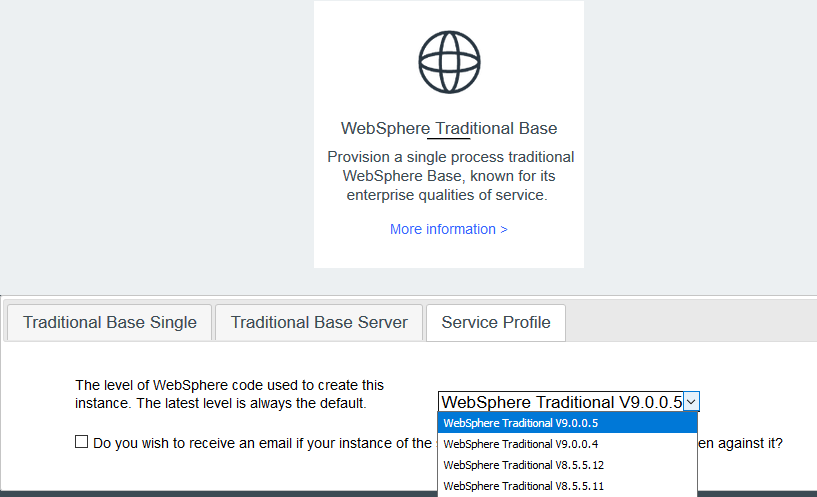
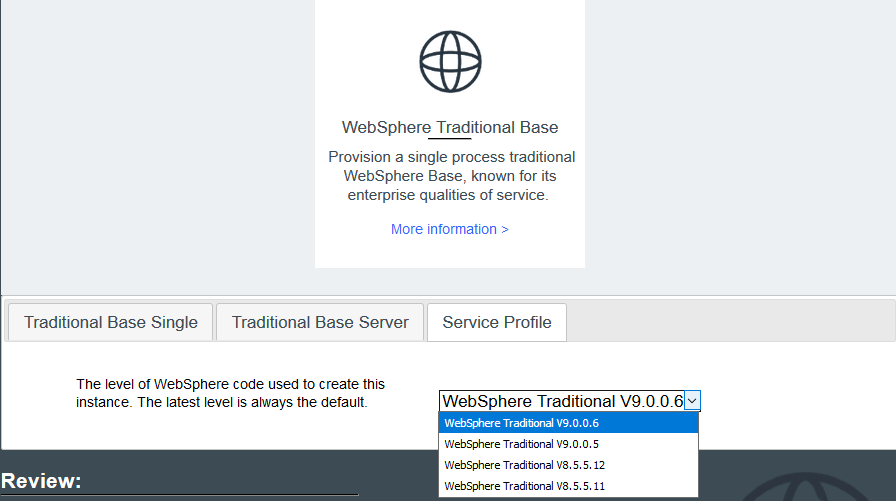
merging January updates

diff --git a/latestUpdates.md b/latestUpdates.md
@@ -1,8 +1,8 @@
 ---
 
 copyright:
-  years: 2016, 2017
-lastupdated: "2017-12-21"
+  years: 2017, 2018
+lastupdated: "2018-02-02"
 
 ---
 
@@ -14,6 +14,16 @@ lastupdated: "2017-12-21"
 {: #latest_updates}
 
 A list of the latest updates to the service.
+
+## January 8, 2018: Updated WebSphere Application Server in {{site.data.keyword.Bluemix_notm}}
+
+* The 9.0.0.6 fixpack version of traditional WebSphere Application Server is now available when you provision a new service instance. In addition to 9.0.0.6, other fixpack versions of traditional WebSphere Application Server, such as 9.0.0.5, 8.5.5.12, and 8.5.5.11, are available for provisioning.
+* The 17.0.0.4 fixpack version of WebSphere Application Server Liberty is now available when you provision a new service instance. In addition to 17.0.0.4, the 17.0.0.3 fixpack version of WebSphere Application Server Liberty is available for provisioning.
+* Addressed [several security vulnerabilities](http://www-01.ibm.com/support/docview.wss?uid=swg22013153){: new_window} in WebSphere Application Server in {{site.data.keyword.Bluemix_notm}} including:
+  * A vulnerability where OpenSAML could allow a remote authenticated attacker to obtain sensitive information, caused by an error when parsing XML entities.
+  * A vulnerability where Apache HTTP Server could allow a remote attacker to obtain sensitive information, caused by a flaw in the HTTP OPTIONS method, aka Optionsbleed.
+  * A vulnerability where Apache Portable Runtime Utility (APR-util) is vulnerable to a denial of service, caused by failing to validate the integrity of SDBM database files used by apr_sdbm*() functions.
+* Integrated miscellaneous service maintenance.
 
 ## December 21, 2017: Updated WebSphere Application Server in {{site.data.keyword.Bluemix_notm}}
 

diff --git a/maintenanceAndUpdates.md b/maintenanceAndUpdates.md
@@ -1,8 +1,8 @@
 ---
 
 copyright:
-  years: 2016, 2017
-lastupdated: "2017-11-03"
+  years: 2017, 2018
+lastupdated: "2018-02-02"
 
 ---
 
@@ -20,13 +20,13 @@ IBM WebSphere Application Server in {{site.data.keyword.Bluemix_notm}} is update
 
 Additionally, consumers can create a WebSphere Application Server in {{site.data.keyword.Bluemix_notm}} instance using an older fixpack level if desired to conform with hybrid cloud deployment requirements. You can choose between the current fixpack level or one older version (n or n-1) through the Service Profile tab in the {{site.data.keyword.Bluemix_notm}} Service Dashboard.
 
-For Liberty instances, choose between 17.0.0.2 and 17.0.0.3 as shown in Figure 1:
+For Liberty instances, choose between 17.0.0.3 and 17.0.0.4 as shown in Figure 1:
 
 Figure 1. Fixpack selection choices for Liberty Core instances
 
 ![Figure1. Fixpack selection choices for Liberty Core instances](images/libertyNMinus1.png)
 
-For Traditional WebSphere instances, choose between 8.5.5.11, 8.5.5.12, 9.0.0.4 or 9.0.0.5 as shown in Figure 2:
+For Traditional WebSphere instances, choose between 8.5.5.11, 8.5.5.12, 9.0.0.5 or 9.0.0.6 as shown in Figure 2:
 
 Figure 2. Fixpack selection choices for Traditional WebSphere instances
 

diff --git a/gettingStartedSTE.md b/gettingStartedSTE.md
@@ -1,8 +1,8 @@
 ---
 
 copyright:
-  years: 2016, 2017
-lastupdated: "2017-07-25"
+  years: 2017, 2018
+lastupdated: "2018-02-02"
 
 ---
 

diff --git a/index.md b/index.md
@@ -1,8 +1,8 @@
 ---
 
 copyright:
-  years: 2016, 2017
-lastupdated: "2017-11-03"
+  years: 2017, 2018
+lastupdated: "2018-02-02"
 
 ---
 

diff --git a/installationConventions.md b/installationConventions.md
@@ -1,8 +1,8 @@
 ---
 
 copyright:
-  years: 2016, 2017
-lastupdated: "2017-11-03"
+  years: 2017, 2018
+lastupdated: "2018-02-02"
 
 ---
 

diff --git a/networkEnvironment.md b/networkEnvironment.md
@@ -1,8 +1,8 @@
 ---
 
 copyright:
-  years: 2016, 2017
-lastupdated: "2017-11-06"
+  years: 2017, 2018
+lastupdated: "2018-02-02"
 
 ---
 

diff --git a/reportingIssues.md b/reportingIssues.md
@@ -1,8 +1,8 @@
 ---
 
 copyright:
-  years: 2016, 2017
-lastupdated: "2017-11-03"
+  years: 2017, 2018
+lastupdated: "2018-02-02"
 
 ---
 

diff --git a/singleTenantAccess.md b/singleTenantAccess.md
@@ -1,8 +1,8 @@
 ---
 
 copyright:
-  years: 2016, 2017
-lastupdated: "2017-11-03"
+  years: 2017, 2018
+lastupdated: "2018-02-02"
 
 ---
 

diff --git a/systemAccess.md b/systemAccess.md
@@ -1,8 +1,8 @@
 ---
 
 copyright:
-  years: 2016, 2017
-lastupdated: "2017-11-03"
+  years: 2017, 2018
+lastupdated: "2018-02-02"
 
 ---
 
